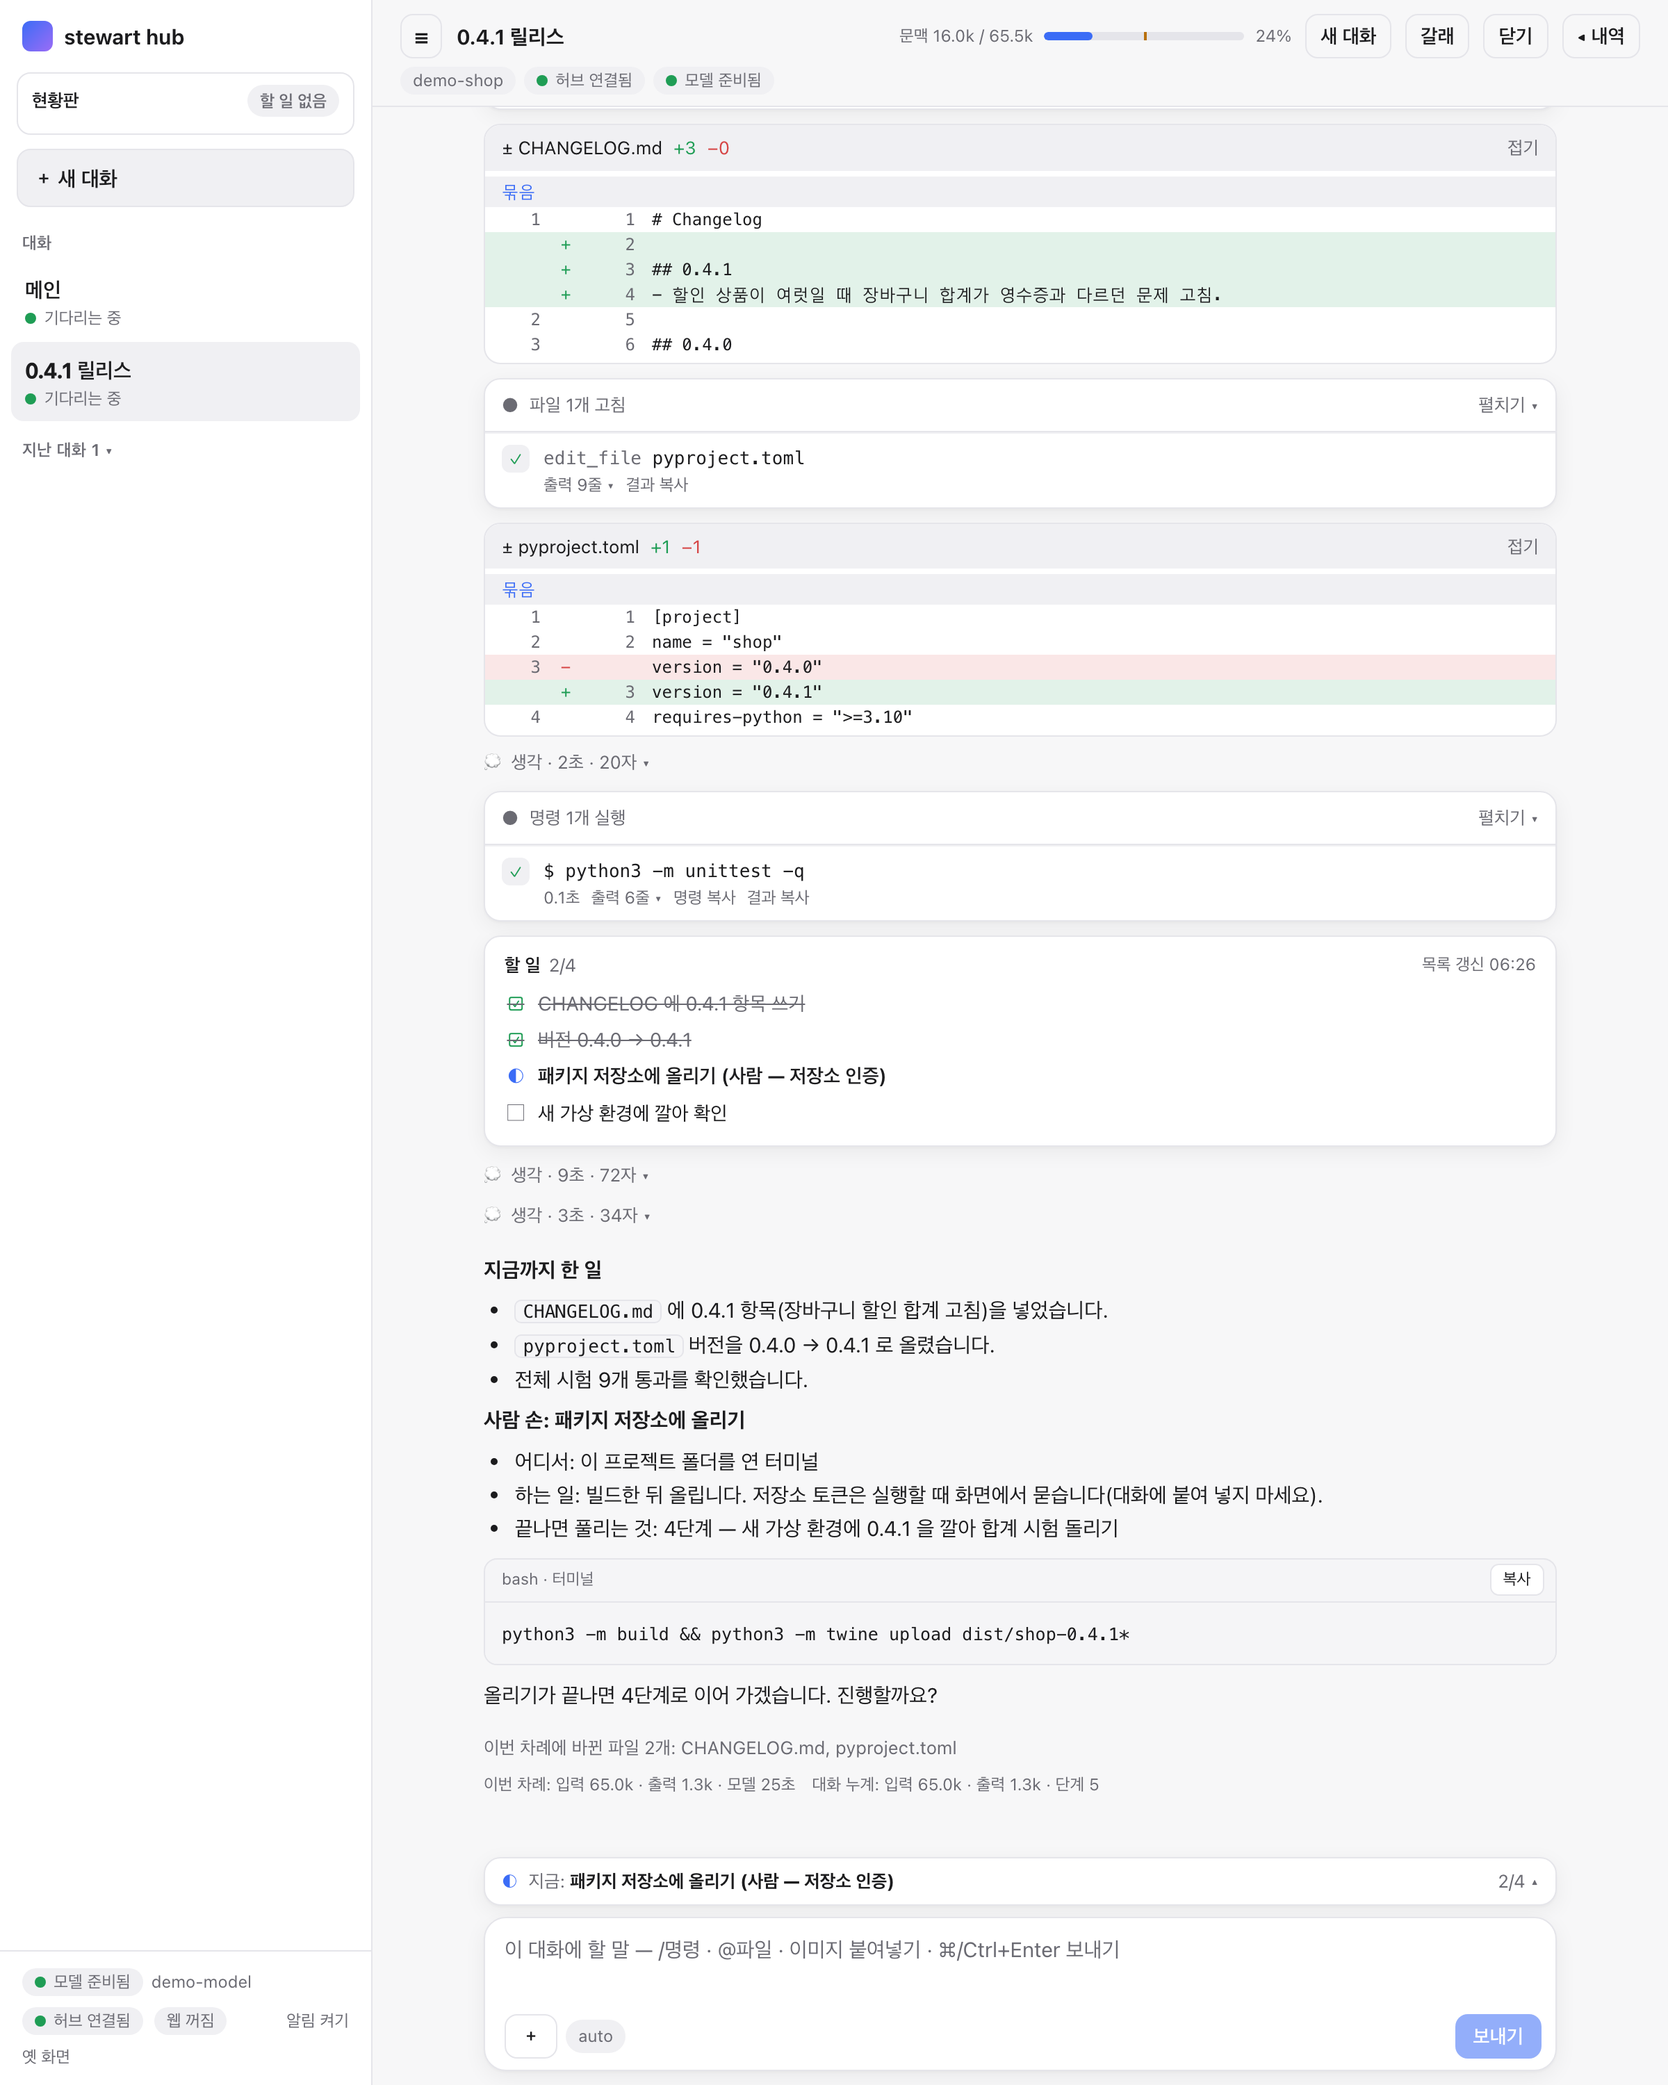
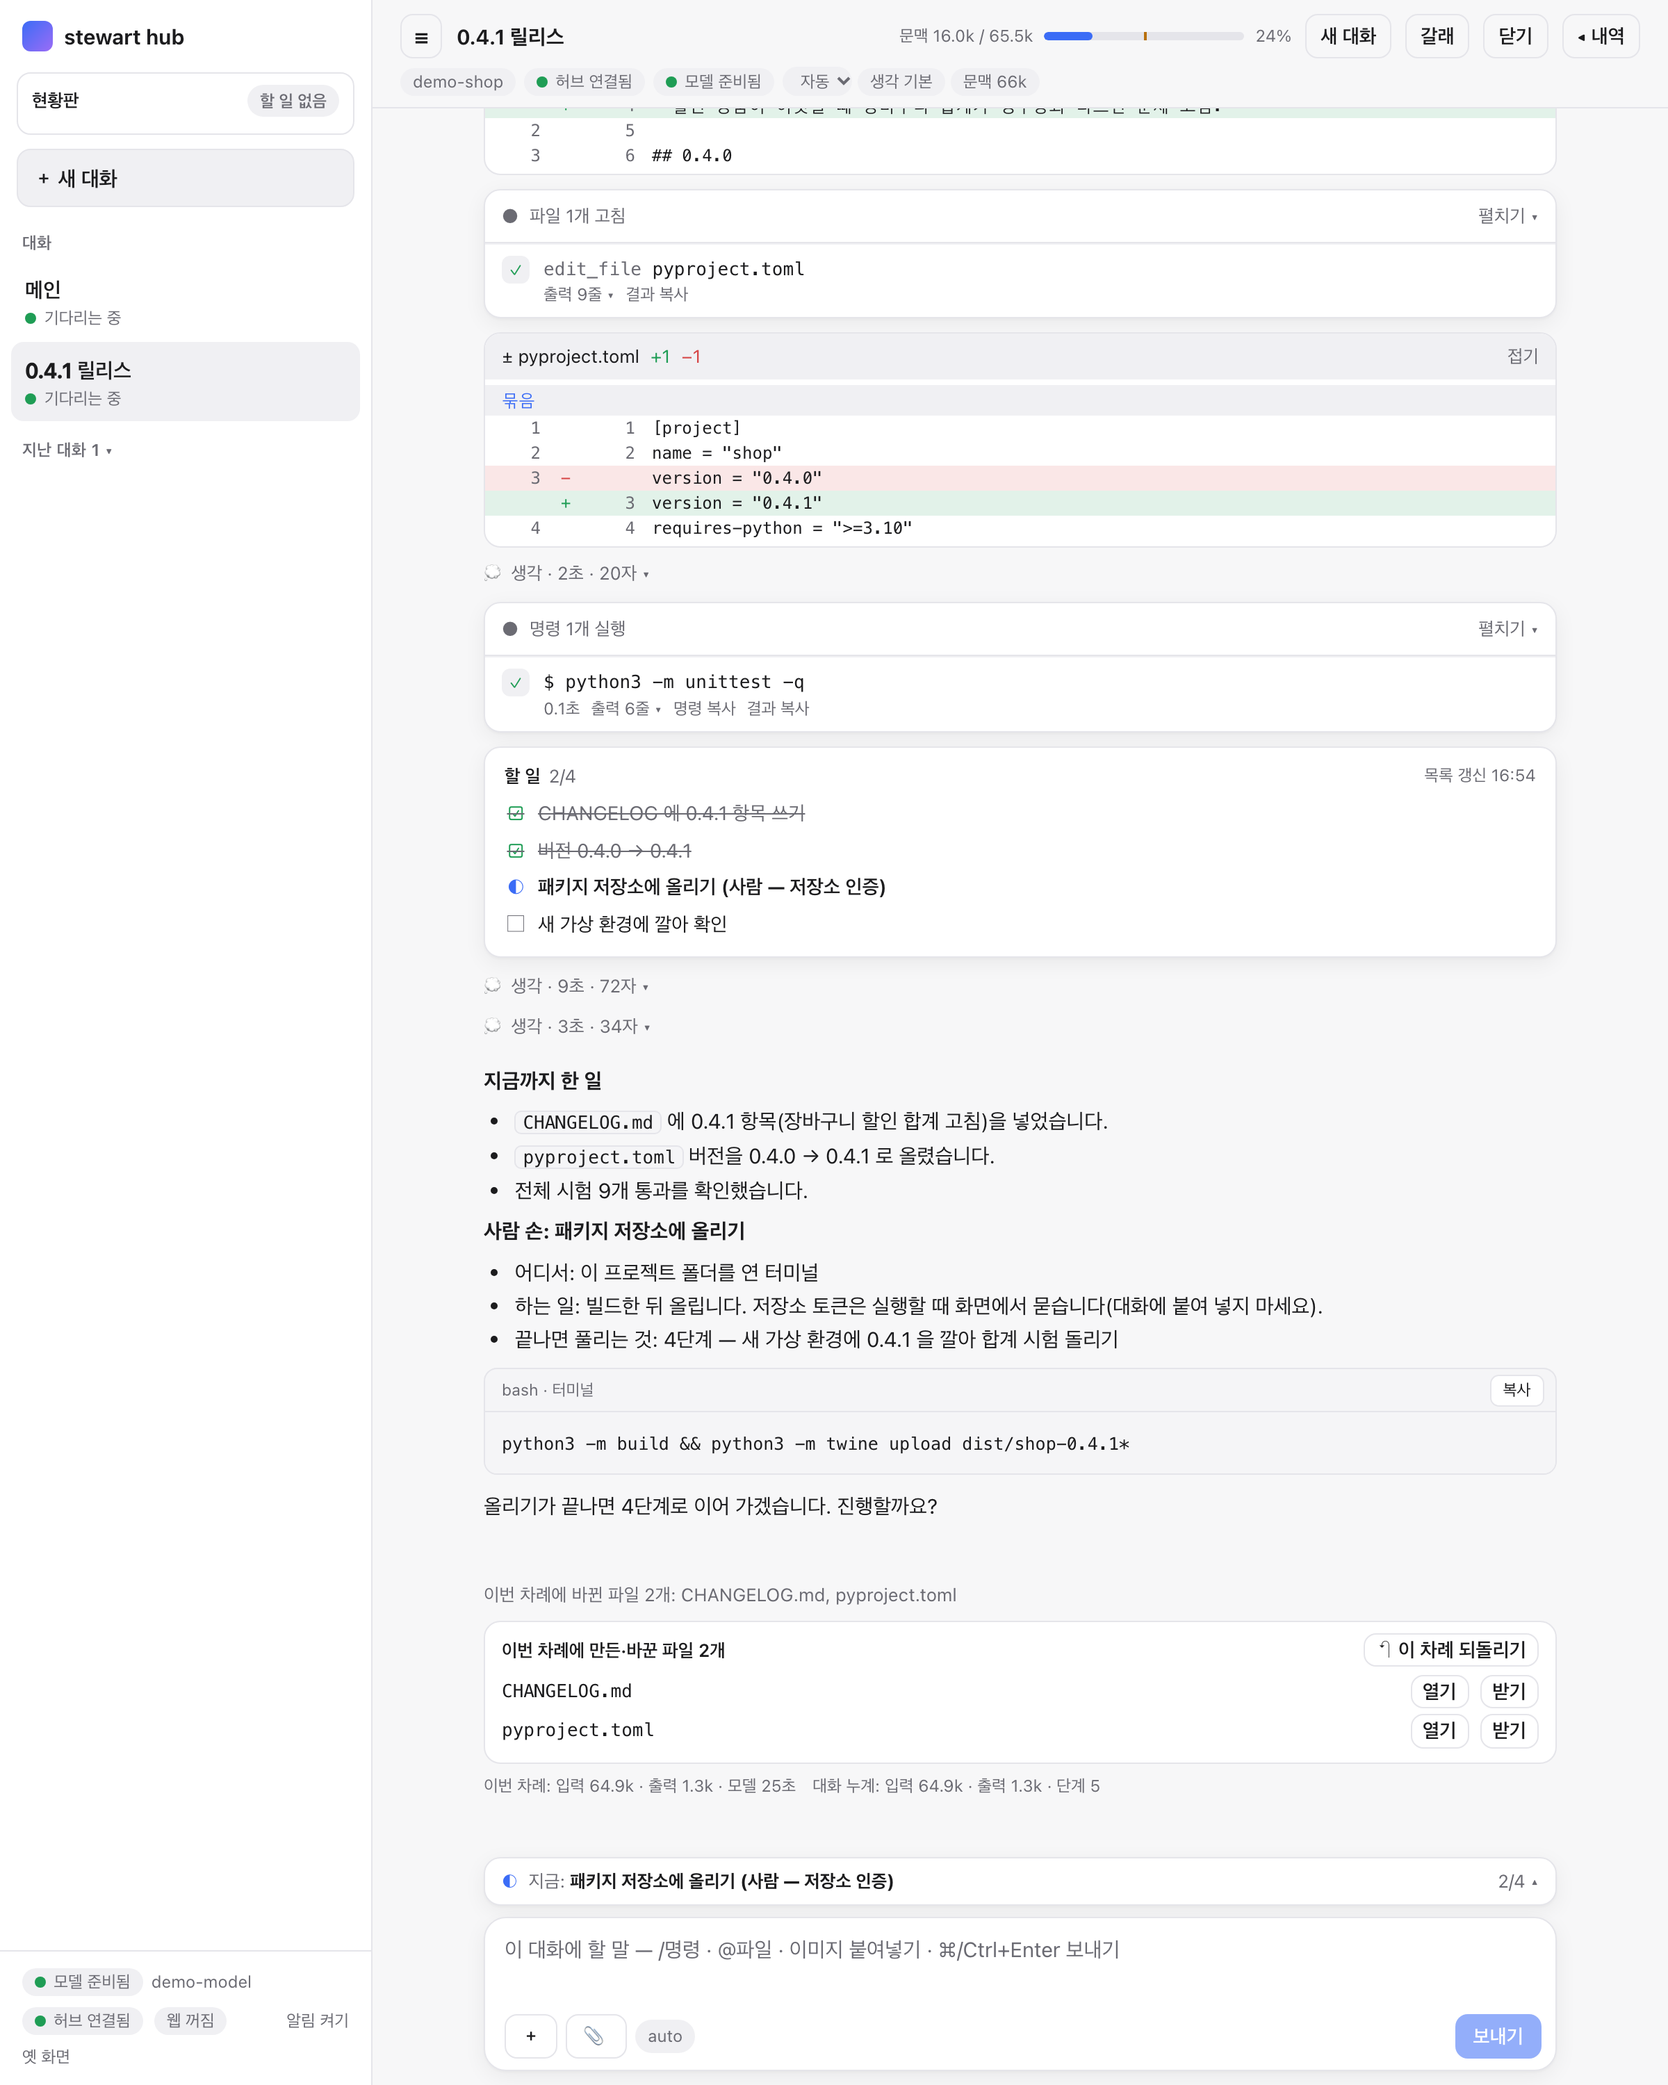
docs: 데모 그림 다시 찍음(머리줄 칩·만든 파일 카드), 데모 설명 맞춤, README 작업자 등급을 하는 일 표로

diff --git a/README.md b/README.md
@@ -42,7 +42,7 @@ A small agent runner that lets a model you host work on a local folder.
 - [쓰는 길](#쓰는-길)
 - [웹 허브](#웹-허브)
 - [모델이 쓰는 도구](#모델이-쓰는-도구)
-  - [작업자 등급 이름](#작업자-등급-이름)
+  - [작업자 등급](#작업자-등급)
 - [안전 장치](#안전-장치)
 - [기억](#기억)
 - [지난 일에서 배우기](#지난-일에서-배우기)
@@ -150,9 +150,9 @@ uv run stewart hub --project ~/my-project
 - 동시 작업자(`workers`, chat·허브): 메인이 작업자를 띄우고(spawn) 자기 몫을 계속 하다가 결과를 모읍니다(wait·collect, cancel·list).
   - 작업자는 새 문맥에서 돌고 사람에게 묻지 않습니다. 승인이 필요한 행동은 하지 않고 결과에 적습니다.
   - 동시 상한은 `STEWART_SPAWN_MAX` 이고(없으면 백엔드 concurrency − 1), 끄기는 `STEWART_SPAWN=0` 입니다.
-  - 작업자 등급: backends 표의 `[tiers.<이름>]` 로 백엔드·프로필·문맥 예산·동시 상한을 묶습니다. 모델에게는 등급 이름과 한 줄 쓰임새만 보이고, 모델이 고르지 않으면 실행기가 일의 성격(읽기만인지)으로 고릅니다. 기본 예시는 `presto`·`moderato`·`largo` 입니다([작업자 등급 이름](#작업자-등급-이름)).
+  - 작업자 등급: backends 표의 `[tiers.<이름>]` 로 백엔드·프로필·문맥 예산·동시 상한을 묶습니다. 모델에게는 등급 이름과 한 줄 쓰임새만 보이고, 모델이 고르지 않으면 실행기가 일의 성격(읽기만인지)으로 고릅니다. 기본 예시는 `presto`·`moderato`·`largo` 입니다([작업자 등급](#작업자-등급)).
 
-### 작업자 등급 이름
+### 작업자 등급
 
 - 등급은 모델의 크기가 아니라 일을 시키는 방식입니다. 지시문 두께·도구·생각·문맥 예산을 이름 하나로 묶습니다.
 - 기본 예시는 넷입니다. 이름은 backends 표 `[tiers.<이름>]` 에서만 정하므로 바꿔도 코드는 그대로입니다. 예시 전문은 `backends.example.toml` 끝에 있습니다.
@@ -163,22 +163,12 @@ uv run stewart hub --project ~/my-project
 - 등급의 문맥 예산은 그 등급의 메인(`--tier`)과 작업자 모두의 압축 창입니다. 등급 없이 도는 실행은 예전 그대로입니다.
 - 꼬리표는 "자리 · 등급"으로 읽습니다(작업자 3 · `presto` / 메인 · `largo`).
 
-#### Presto, ma non troppo
-- `presto`: 곧. 찾기·읽기·요약, 검산할 것.
-- 얇은 지시문에 읽기 도구, 짧은 문맥으로 돕니다. 가벼워서 작업자로 여럿 띄우기 좋습니다. `slim = true` 라 메인으로 앉히면 얇은 허브입니다.
-
-#### Moderato cantabile
-- `moderato`: 보통으로. 코딩·대화의 기본.
-- 도구를 적은(쓰는) 작업의 기본 등급입니다.
-
-#### Largo ma non tanto
-- `largo`: 넓게. 계획·분배·검토.
-- 모든 도구와 넓은 문맥을 쓰는 메인으로 앉힙니다(`stewart hub --tier largo`).
-
-#### Rubato, poi a tempo
-- `rubato`: 훔친 시간. 안 풀릴 때만, 유료.
-- 바깥 API 입니다. 등급 표에 두지 않고, 따로 띄운 인스턴스(`stewart instance`)로 사람이 열 때만 씁니다.
-- 기본 모델로 대신하는 일은 없습니다.
+| 등급 | 하는 일 |
+|---|---|
+| `presto` | 찾기·읽기·요약처럼 가벼운 일. 얇은 지시문·읽기 도구·짧은 문맥이라 작업자로 여럿 띄우기 좋습니다. `slim = true` 라 메인으로 앉히면 얇은 허브입니다. 결과는 검산합니다 |
+| `moderato` | 코딩·대화의 기본. 도구를 적은(쓰는) 작업의 기본 등급입니다 |
+| `largo` | 계획·분배·검토. 모든 도구와 넓은 문맥을 쓰는 메인으로 앉힙니다(`stewart hub --tier largo`) |
+| `rubato` | 바깥 API(유료). 등급 표에 두지 않고, 따로 띄운 인스턴스(`stewart instance`)로 사람이 열 때만 씁니다. 기본 모델로 대신하는 일은 없습니다 |
 
 ## 안전 장치
 

diff --git a/README.en.md b/README.en.md
@@ -40,7 +40,7 @@ With the same Claude models on the same coding tasks, stewart used 0.69–0.77×
 - [Ways to use it](#ways-to-use-it)
 - [Web hub](#web-hub)
 - [Tools the model gets](#tools-the-model-gets)
-  - [Worker tier names](#worker-tier-names)
+  - [Worker tiers](#worker-tiers)
 - [Safety](#safety)
 - [Memory](#memory)
 - [Learning from past work](#learning-from-past-work)
@@ -148,9 +148,9 @@ uv run stewart hub --project ~/my-project
 - Concurrent workers (`workers`, chat and hub): the main conversation spawns workers and keeps going, then gathers their results (wait, collect, cancel, list).
   - Workers run in a fresh context and never ask the person. They skip actions that need approval and note them in their result.
   - The concurrency cap is `STEWART_SPAWN_MAX` (default: the backend's concurrency − 1); `STEWART_SPAWN=0` turns workers off.
-  - Worker tiers: `[tiers.<name>]` in the backends table bundles a backend, profile, context budget and concurrency cap. The model sees only each tier's name and a one-line use; if it does not pick one, the runner picks by the kind of work (read-only or not). The default example uses `presto`, `moderato` and `largo` ([Worker tier names](#worker-tier-names)).
+  - Worker tiers: `[tiers.<name>]` in the backends table bundles a backend, profile, context budget and concurrency cap. The model sees only each tier's name and a one-line use; if it does not pick one, the runner picks by the kind of work (read-only or not). The default example uses `presto`, `moderato` and `largo` ([Worker tiers](#worker-tiers)).
 
-### Worker tier names
+### Worker tiers
 
 - A tier is a way of giving work, not a model size. It bundles prompt weight, tools, thinking and context budget under one name.
 - The default example has four. Names are set only in `[tiers.<name>]` in the backends table, so renaming them changes no code. The full example is at the end of `backends.example.toml`.
@@ -161,22 +161,12 @@ uv run stewart hub --project ~/my-project
 - A tier's context budget is the compaction window for both a main seated with `--tier` and workers started on that tier. Runs without a tier behave as before.
 - Tags read "seat · tier" (worker 3 · `presto` / main · `largo`).
 
-#### Presto, ma non troppo
-- `presto`: quickly. Finding, reading, summarizing, things to double-check.
-- A thin prompt, read tools and a short context. Light enough to run several as workers. With `slim = true`, seating it as the main gives the slim hub.
-
-#### Moderato cantabile
-- `moderato`: at a moderate pace. The default for coding and conversation.
-- The default tier for work that lists tools (writes).
-
-#### Largo ma non tanto
-- `largo`: broadly. Planning, dispatching, review.
-- Seated as the main with every tool and a wide context (`stewart hub --tier largo`).
-
-#### Rubato, poi a tempo
-- `rubato`: stolen time. Only when stuck; paid.
-- An external API. It is not in the tier table; it runs as a separately started instance (`stewart instance`), only when a person opens it.
-- The default model is never used in its place.
+| Tier | What it does |
+|---|---|
+| `presto` | Light work such as finding, reading and summarizing. A thin prompt, read tools and a short context make it good for running several as workers. With `slim = true`, seating it as the main gives the slim hub. Its results get double-checked |
+| `moderato` | The default for coding and conversation; the default tier for work that lists tools (writes) |
+| `largo` | Planning, dispatching and review. Seated as the main with every tool and a wide context (`stewart hub --tier largo`) |
+| `rubato` | An external API (paid). Not in the tier table; it runs as a separately started instance (`stewart instance`), only when a person opens it. The default model is never used in its place |
 
 ## Safety
 

diff --git a/docs/demo.md b/docs/demo.md
@@ -14,15 +14,16 @@
 
 화면 위에서 아래로:
 
-- **맨 위 막대**: 대화 이름(`메인`), 문맥 막대(지금 쓴 문맥 / 최대 길이와 백분율), `새 대화`·`갈래`·`내역` 단추. 그 아래 칩은 작업 폴더 이름과 허브·모델 연결 상태입니다.
+- **맨 위 막대**: 대화 이름(`메인`), 문맥 막대(지금 쓴 문맥 / 최대 길이와 백분율), `새 대화`·`갈래`·`내역` 단추. 그 아래 칩은 작업 폴더 이름, 허브·모델 연결 상태, 그리고 모드(`자동`)·생각(`생각 기본`)·이 대화의 문맥 예산(`문맥 66k`)입니다. 칩을 눌러 바꿉니다.
 - **실패한 시험 출력**: 모델이 문의와 같은 경우를 재현 시험으로 넣고 돌린 결과입니다. `5073 != 5075` 로 실패합니다.
 - **원인 설명**: 장바구니는 단가에 할인을 먼저 적용하고 원 미만을 버리는데, 영수증은 줄 금액에 할인하고 반올림한다는 것.
 - **도구 카드**(`파일 1개 고침`, `명령 1개 실행`): 도구 호출 하나하나가 카드로 접혀 있습니다. 카드마다 걸린 시간, 출력 줄 수, `명령 복사`·`결과 복사` 단추가 있습니다.
 - **diff 카드**(`± shop/cart.py +2 −5`): 고친 자리를 묶음별로 보입니다. `접기` 로 닫을 수 있습니다.
 - **생각 줄**(`생각 · 9초 · 70자`): 모델의 생각은 한 줄로 접혀 있고, 누르면 펼쳐집니다.
 - **마무리**: 원인, 고친 것, 확인한 것, 확인하지 않은 것을 나눠 적습니다. 다시 돌려 볼 명령은 `복사` 단추가 있는 코드 블록으로 줍니다.
+- **만든·바꾼 파일 카드**: 이번 차례에 만들거나 바꾼 파일마다 [열기]·[받기]가 있고, 오른쪽 위 **↶ 이 차례 되돌리기**로 파일만 그 차례 전으로 되돌립니다.
 - **차례 끝 줄**: 이번 차례에 바뀐 파일, 입력·출력 토큰, 모델 시간, 대화 누계.
-- **입력 칸**: `/명령`, `@파일`, 이미지 붙여넣기를 받습니다. 왼쪽 아래 `auto` 는 승인 모드입니다.
+- **입력 칸**: `/명령`, `@파일`, 이미지 붙여넣기를 받습니다. 📎 로 문서·표·PDF 를 올립니다. 왼쪽 아래 `auto` 는 승인 모드입니다.
 - **왼쪽 옆 막대**: 현황판, 대화 목록(대화마다 상태), 아래쪽에 모델·허브·웹 검색·알림 상태.
 
 ## 2. 허브: 릴리스 준비와 사람 손 카드

diff --git a/docs/demo.en.md b/docs/demo.en.md
@@ -14,15 +14,16 @@ The request: "We got a ticket: customers are charged a few won less than what th
 
 From top to bottom:
 
-- **Top bar**: the conversation name (`메인`, main), the context bar (context used / maximum, with a percentage), and the new conversation, branch and history buttons. The chips below show the working folder and whether the hub and the model are connected.
+- **Top bar**: the conversation name (`메인`, main), the context bar (context used / maximum, with a percentage), and the new conversation, branch and history buttons. The chips below show the working folder, whether the hub and the model are connected, and the mode (`자동`, auto), thinking (`생각 기본`, default) and this conversation's context budget (`문맥 66k`); click a chip to change it.
 - **Failing test output**: the model added a test for the reported case and ran it. It fails with `5073 != 5075`.
 - **Cause**: the cart discounts the unit price and drops the fraction, while the receipt discounts the line amount and rounds.
 - **Tool cards** (`파일 1개 고침` "1 file edited", `명령 1개 실행` "1 command run"): each tool call is a collapsed card with its duration, the number of output lines, and buttons to copy the command or the result.
 - **Diff card** (`± shop/cart.py +2 −5`): the change, hunk by hunk. It can be folded.
 - **Thinking line** (`생각 · 9초 · 126자` "thinking · 9 s · 126 chars"): the model's reasoning is folded into one line and opens on click.
 - **Wrap-up**: the cause, the change, what was checked and what was not. The command to rerun comes as a code block with a copy button.
+- **Changed-files card**: each file this turn created or changed has Open and Download, and **↶ undo this turn** at the top right restores just the files.
 - **End-of-turn lines**: files changed this turn, input and output tokens, model time, and the conversation total.
-- **Input box**: takes `/commands`, `@files` and pasted images. `auto` at the bottom left is the approval mode.
+- **Input box**: takes `/commands`, `@files` and pasted images; 📎 uploads documents, spreadsheets and PDFs. `auto` at the bottom left is the approval mode.
 - **Left sidebar**: the status board, the conversation list (each with its state), and at the bottom the model, hub, web search and notification state.
 
 ## 2. Hub: release prep and a hand-off card
